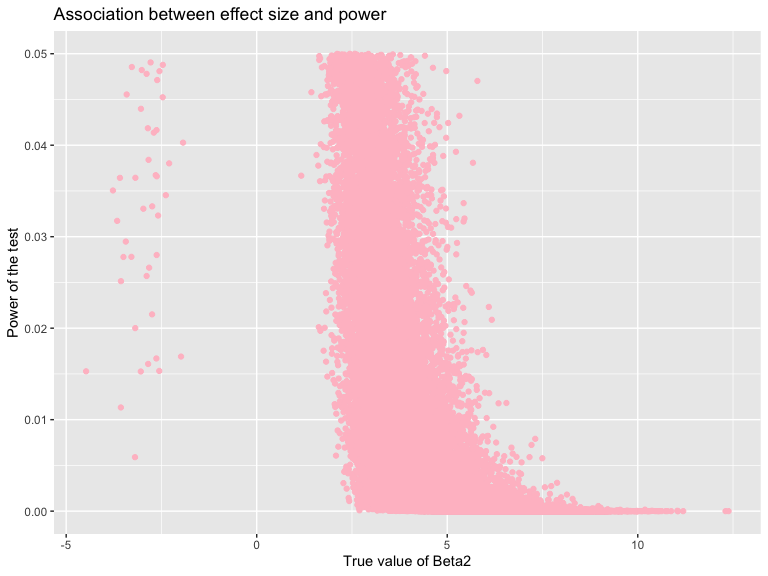
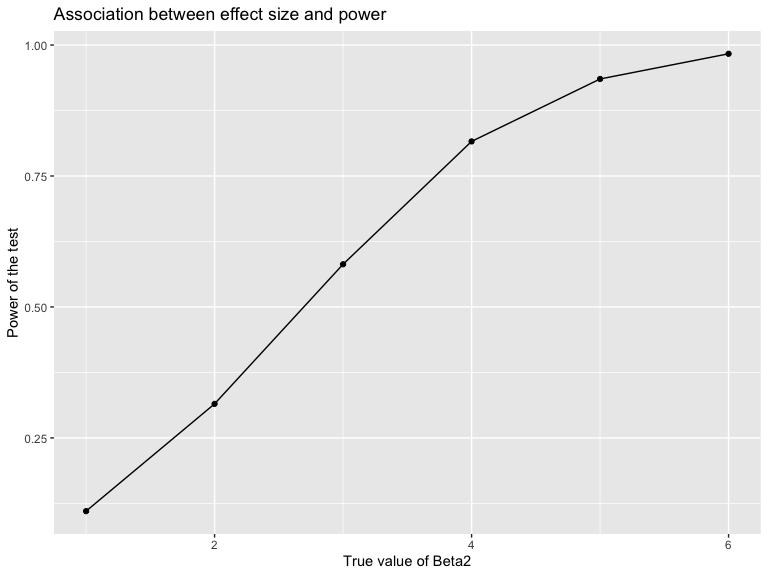
correct 1st plot for q3

diff --git a/p8105_hw5_nja2140.md b/p8105_hw5_nja2140.md
@@ -125,11 +125,12 @@ sim_again =
 
 ``` r
 sim_again %>% 
-  filter(beta1_p<=0.05) %>% 
-  group_by(beta1_hat) %>% 
-  summarize(null_rejected = mean(beta1_p)) %>% 
-  ggplot(aes(x = beta1_hat, y = null_rejected)) +
-  geom_point(color = "pink") +
+  mutate(reject_H0 = as.numeric(ifelse(beta1_p<= 0.05, "1", "0"))) %>% 
+  group_by(beta1_2) %>% 
+  summarize(power = mean(reject_H0)) %>% 
+  ggplot(aes(x = beta1_2, y = power)) +
+  geom_point() + 
+  geom_line() +
   labs(
   title = "Association between effect size and power",
   x = "True value of Beta2",
